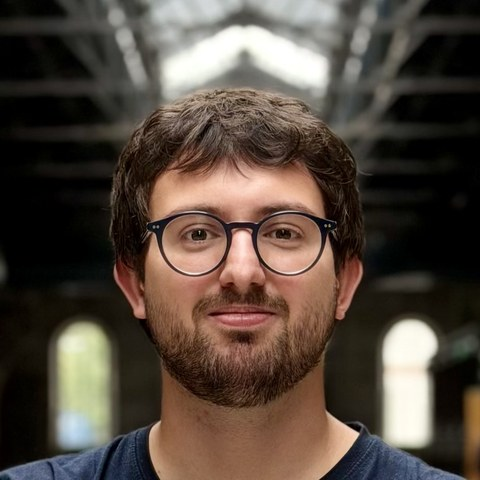
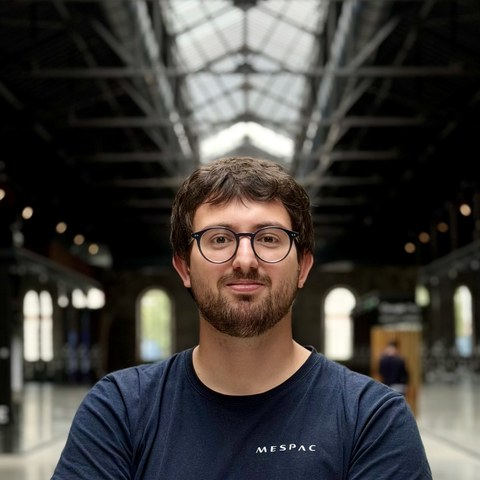
Add files via upload

diff --git a/index.html b/index.html
@@ -37,7 +37,7 @@
     font-size: 15px; letter-spacing: .14em; text-transform: uppercase; color: var(--soft);
     padding-top: 22px;
   }
-  .portrait { display: block; width: 132px; height: 132px; object-fit: cover; border-radius: 50%; margin: 0 0 18px; filter: saturate(.92); }
+  .portrait { display: block; width: 160px; height: 160px; object-fit: cover; border-radius: 50%; margin: 0 0 18px; filter: saturate(.92); }
   figure { margin: 30px 0 30px; }
   figure img { display: block; width: 100%; height: auto; border-radius: 3px; }
   figcaption { font-size: 14px; font-style: italic; color: var(--soft); margin-top: 8px; }
@@ -90,7 +90,7 @@
   footer p { margin: 0 0 4px; }
 
   @media (max-width: 760px) {
-    .portrait { width: 96px; height: 96px; }
+    .portrait { width: 112px; height: 112px; }
     body { font-size: 17.5px; }
     main { padding: 64px 22px 56px; }
     header, section, footer { grid-template-columns: 1fr; }
